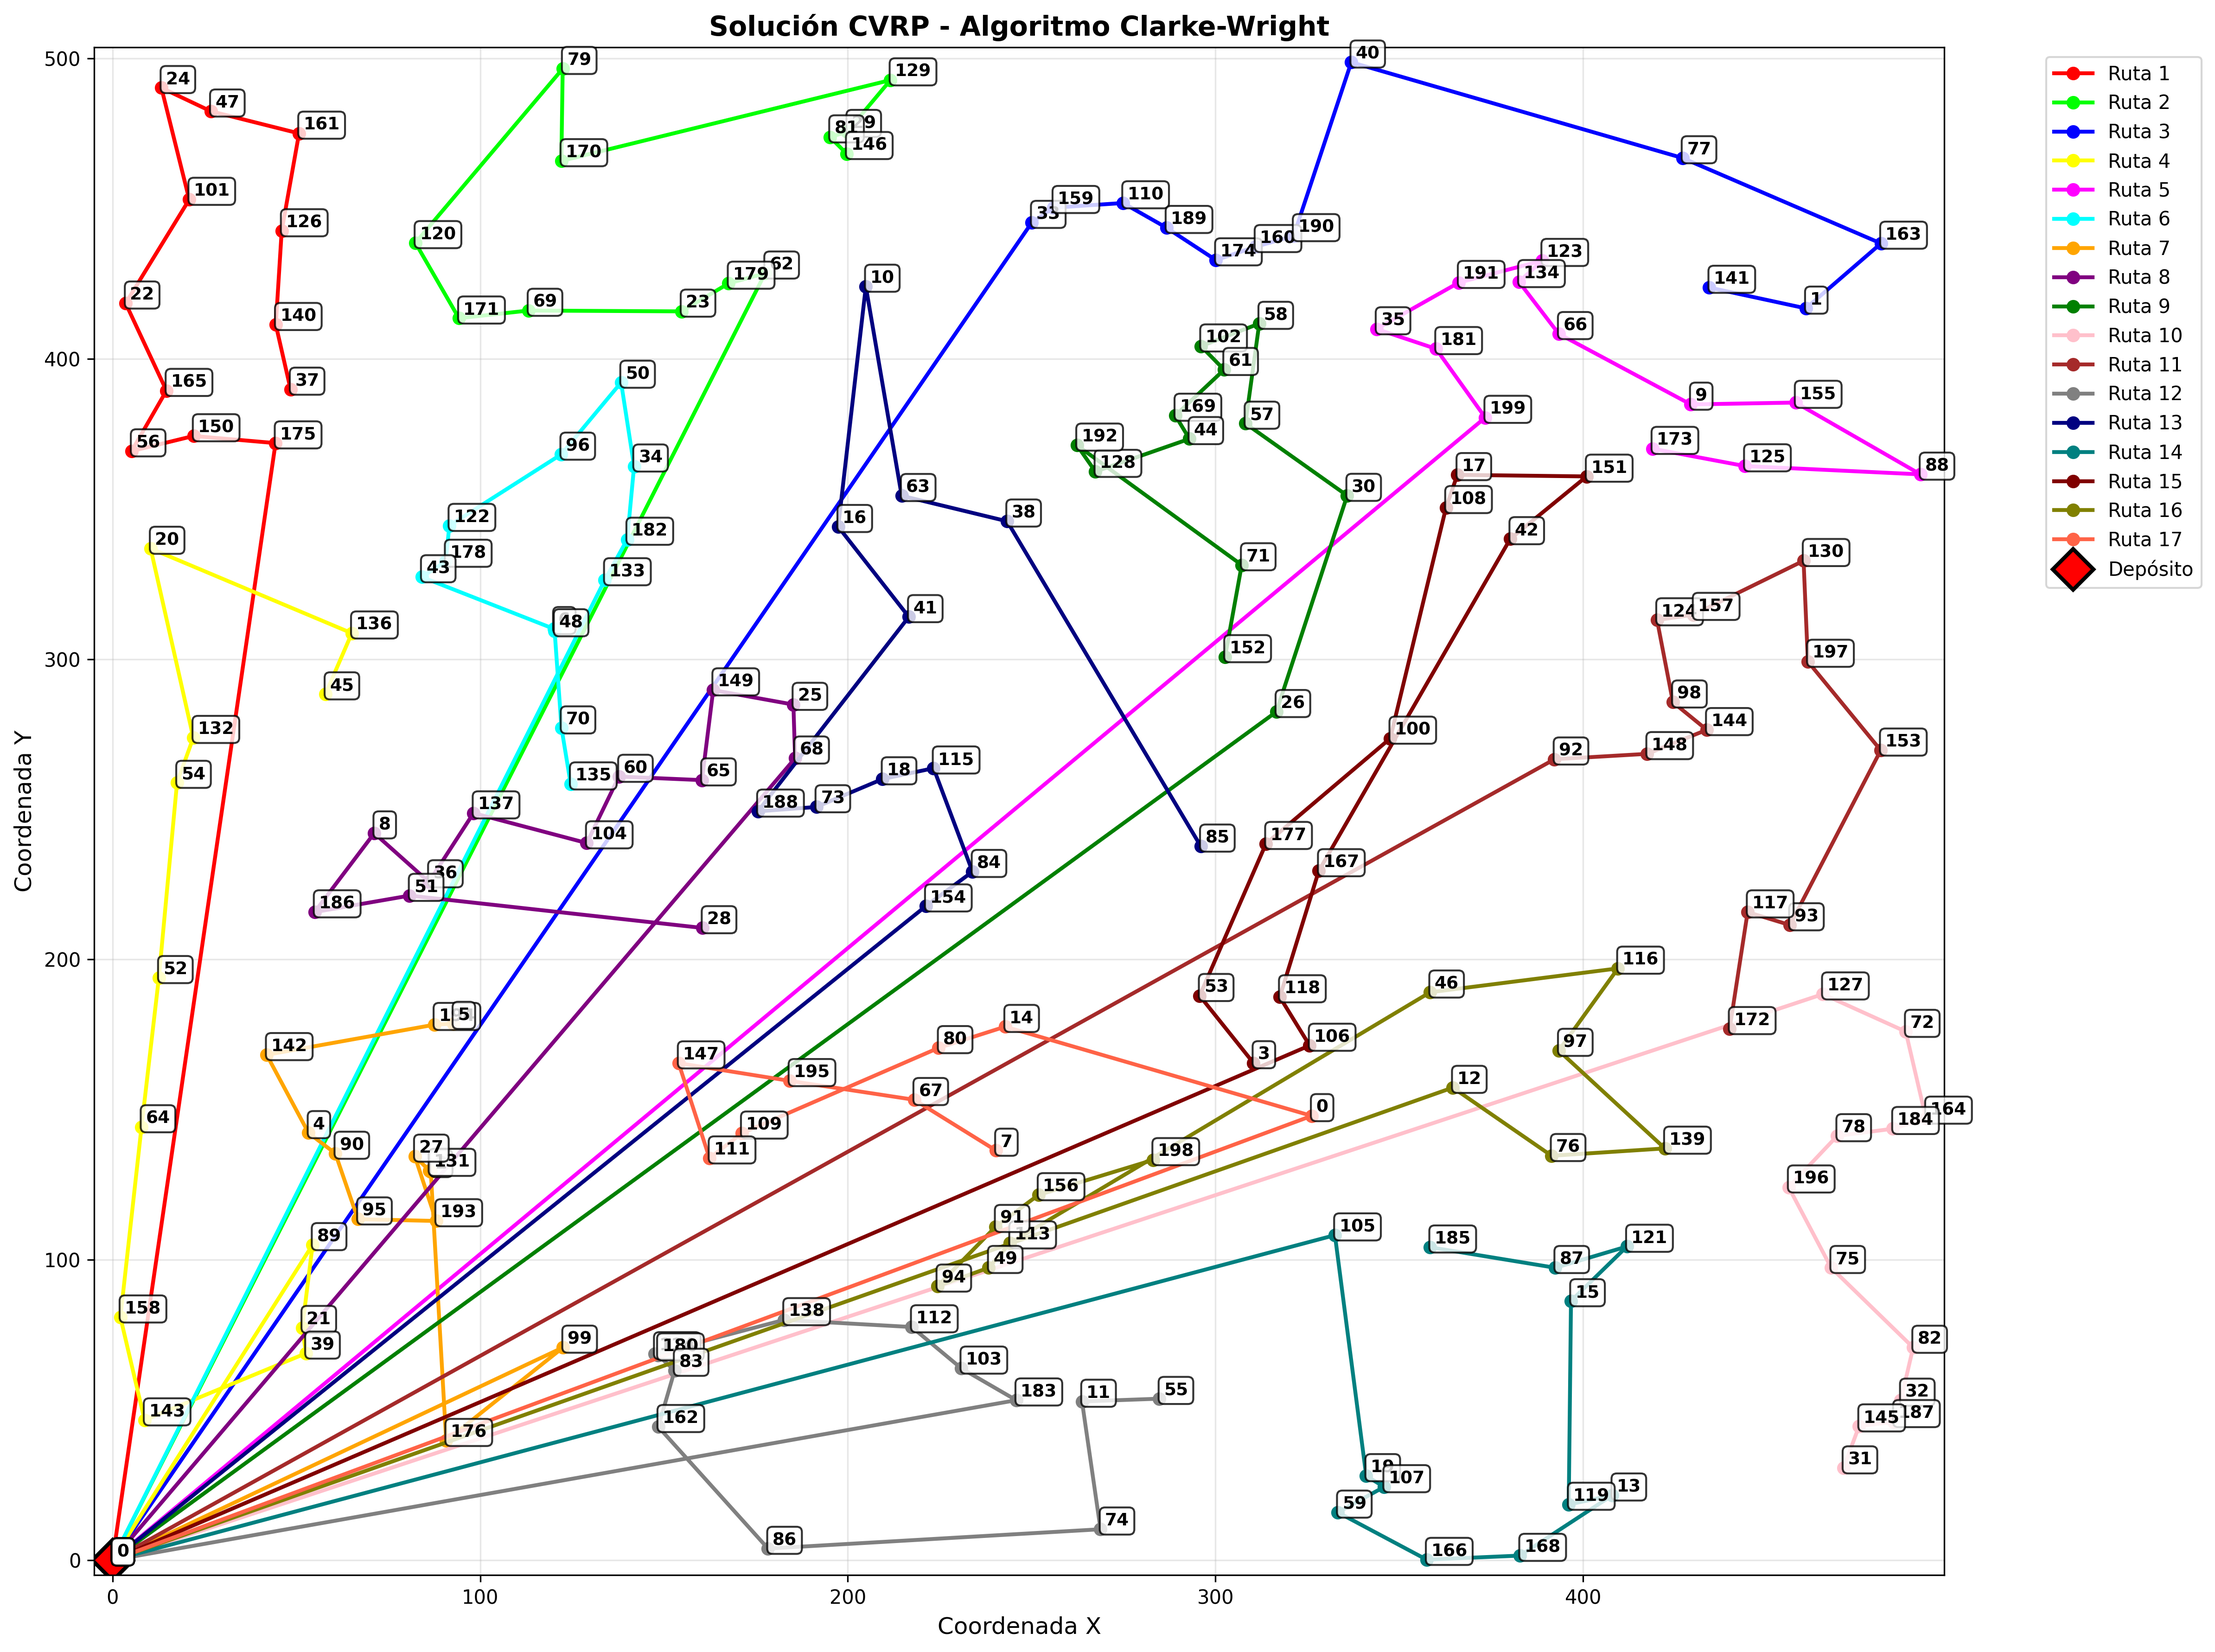
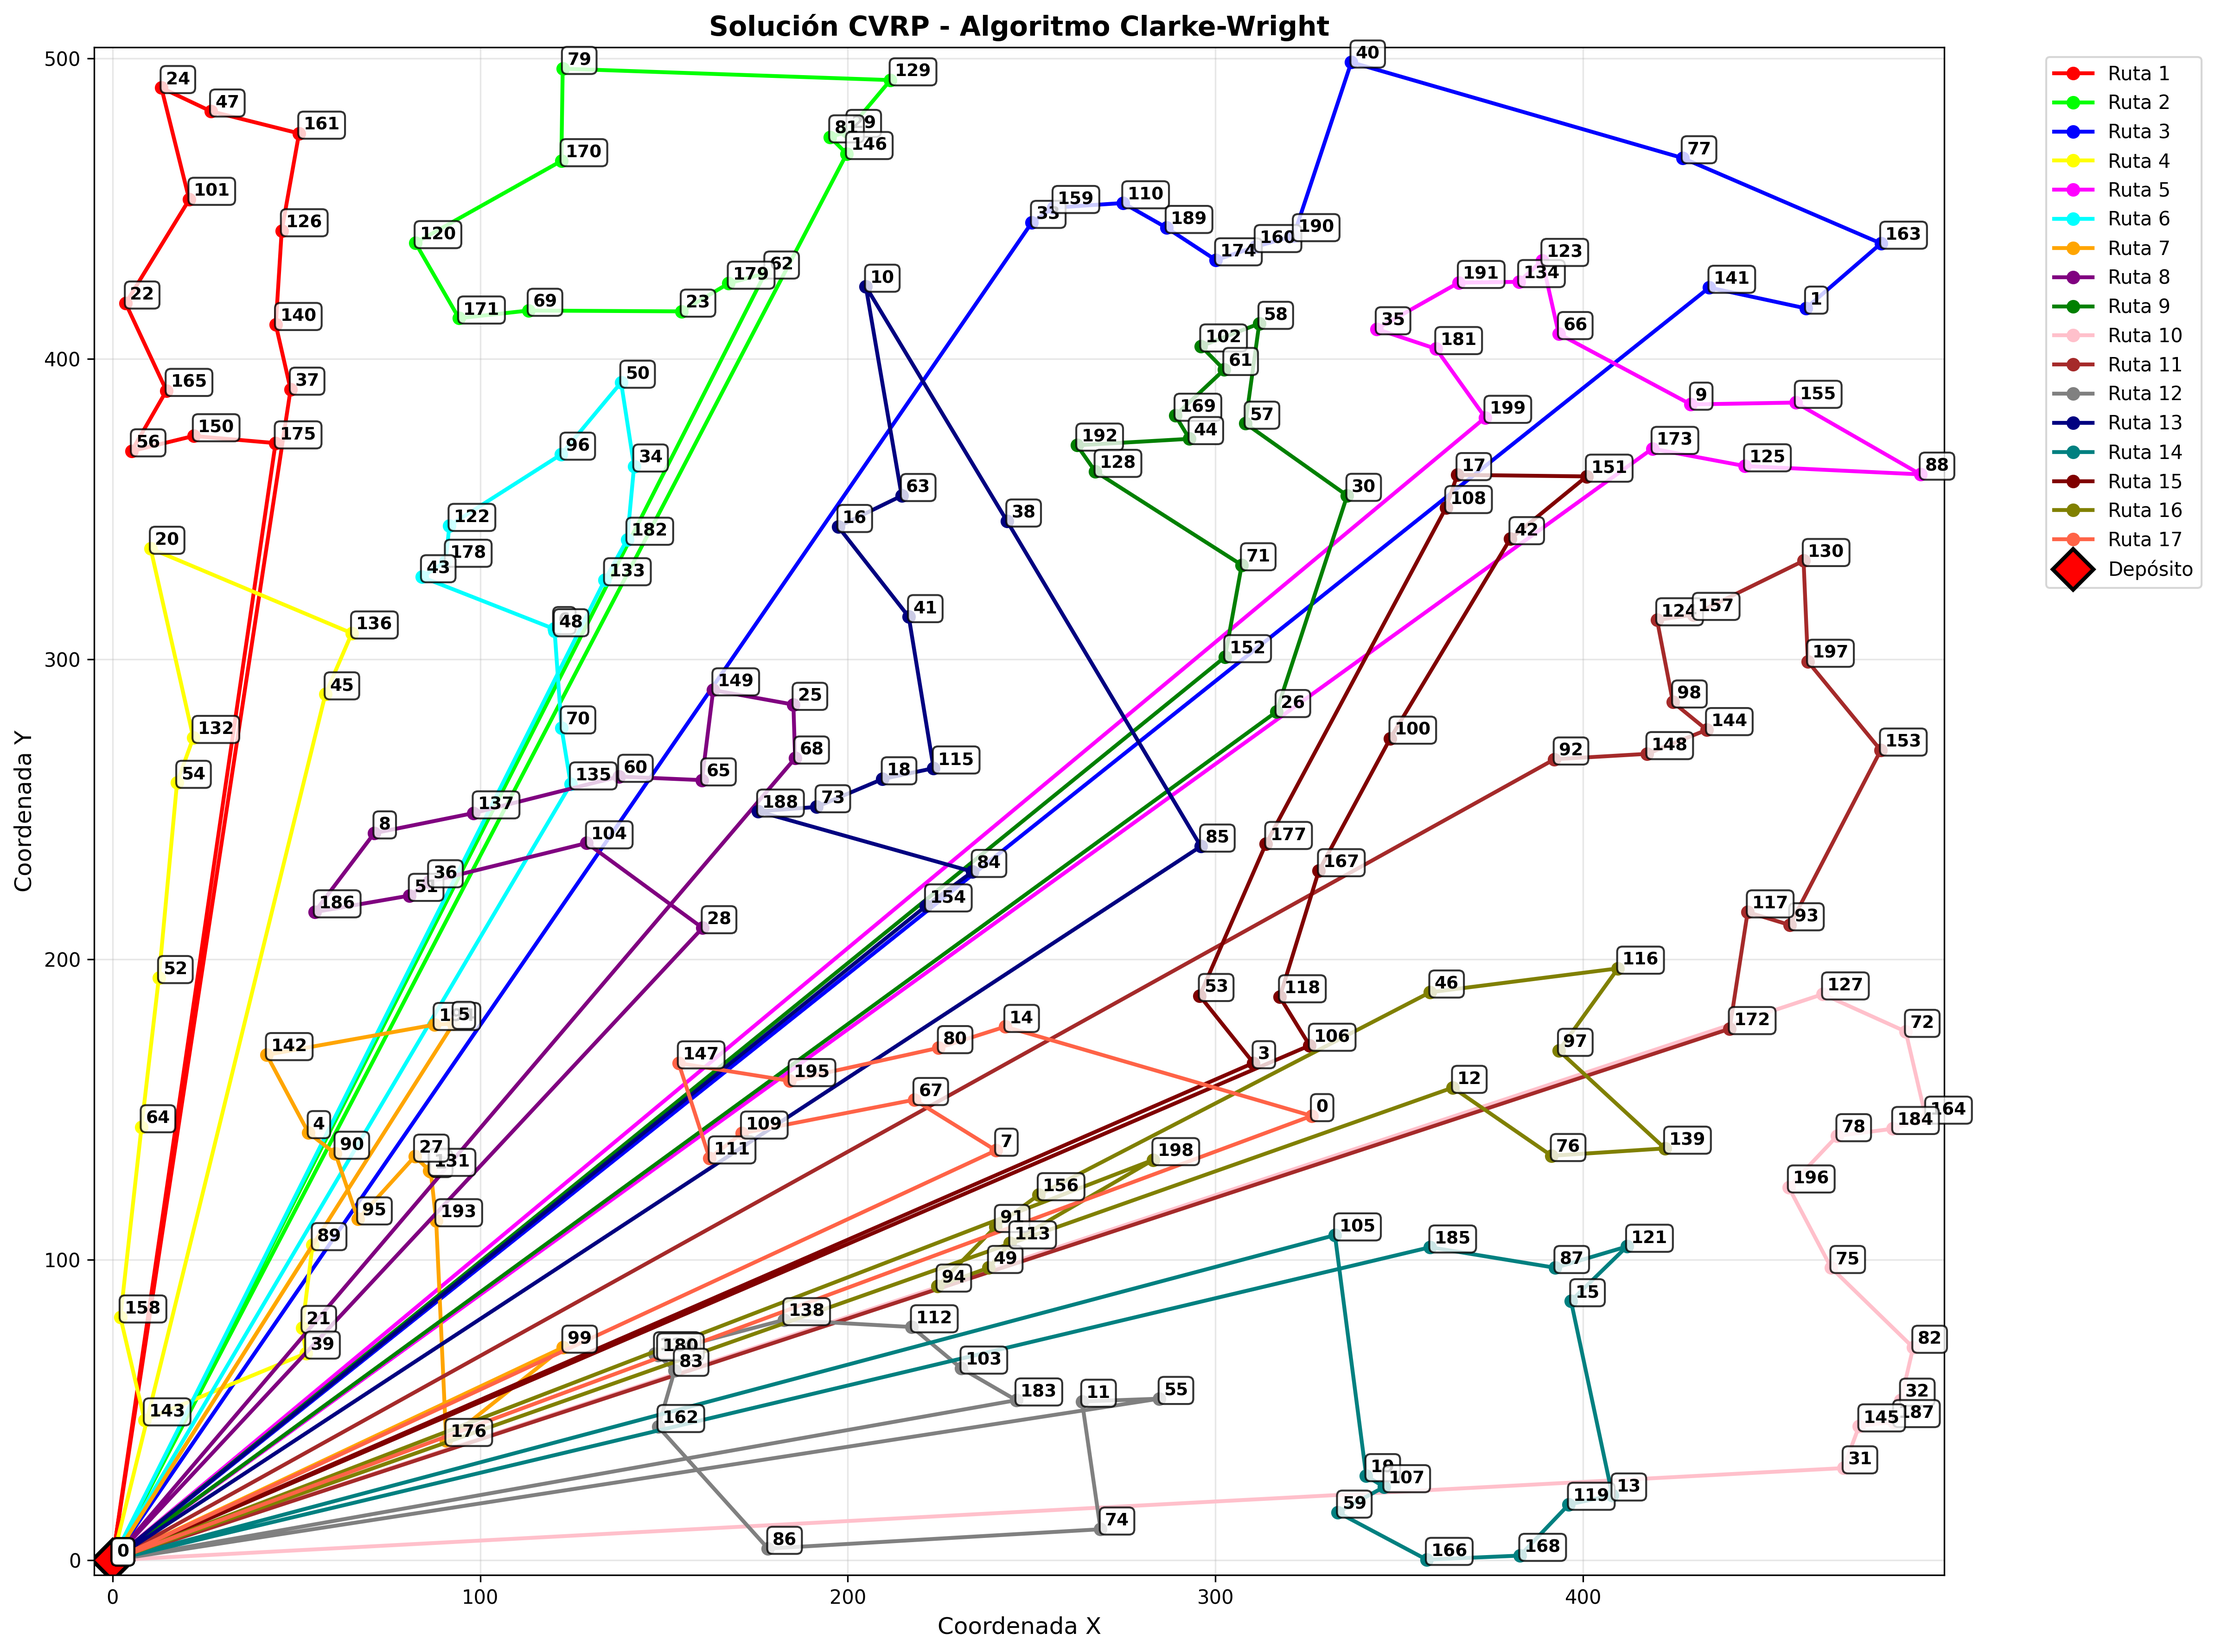
Graphics

diff --git a/Graficar.py b/Graficar.py
@@ -154,7 +154,7 @@ def print_route_summary(routes):
 
 def main():
     # Nombre del archivo CSV generado por el programa C++
-    csv_filename = "solucion_rutas_id.csv"
+    csv_filename = "solucion_rutas.csv"
     
     # Cargar las rutas
     routes = load_routes_from_csv(csv_filename)
